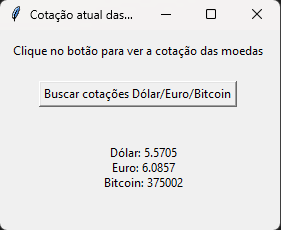
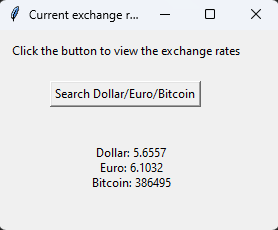
update to english

diff --git a/cotacao.py b/cotacao.py
@@ -2,7 +2,7 @@ import requests
 from tkinter import *
 
 
-def pegar_cotacoes():
+def exchange_rates():
     requisicao = requests.get("https://economia.awesomeapi.com.br/last/USD-BRL,EUR-BRL,BTC-BRL")
 
     requisicao_dic = requisicao.json()
@@ -12,7 +12,7 @@ def pegar_cotacoes():
     cotacao_btc = requisicao_dic['BTCBRL']['bid']
 
     texto = f'''
-    Dólar: {cotacao_dolar}
+    Dollar: {cotacao_dolar}
     Euro: {cotacao_euro}
     Bitcoin: {cotacao_btc}'''
     
@@ -20,13 +20,13 @@ def pegar_cotacoes():
 
 
 janela = Tk()
-janela.title('Cotação atual das moedas')
+janela.title('Current exchange rates')
 janela.geometry('280x200')
 
-texto_orientacao = Label(janela, text='Clique no botão para ver a cotação das moedas')
+texto_orientacao = Label(janela, text='Click the button to view the exchange rates')
 texto_orientacao.grid(column=0, row=0, padx=10, pady=10)
 
-botao = Button(janela, text='Buscar cotações Dólar/Euro/Bitcoin', command=pegar_cotacoes)
+botao = Button(janela, text='Search Dollar/Euro/Bitcoin', command=exchange_rates)
 botao.grid(column=0, row=1, padx=10, pady=10)
 
 texto_cotacoes = Label(janela, text='')
